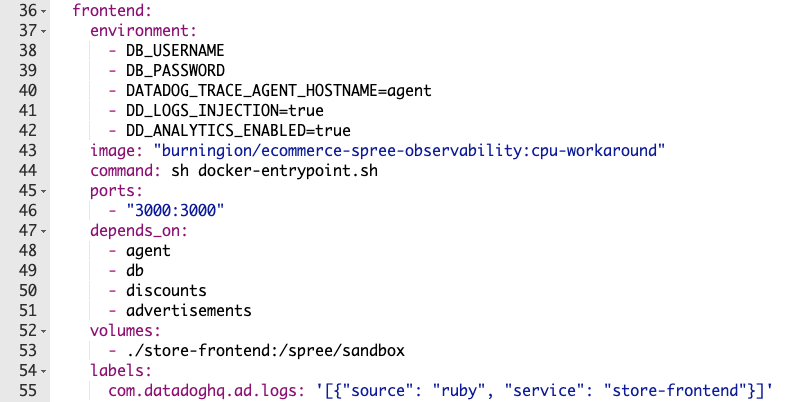
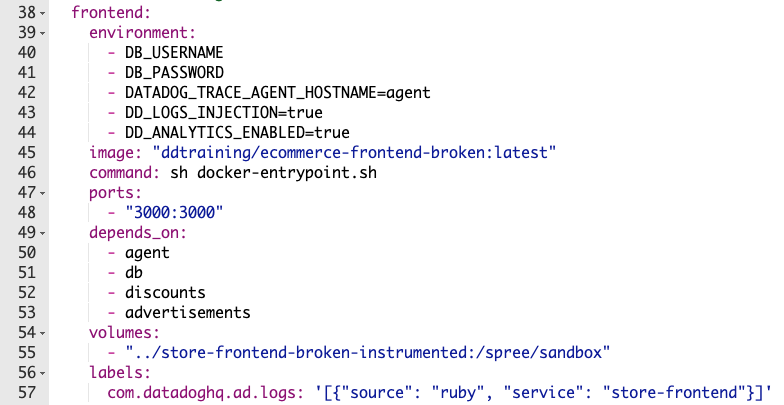
updated copy steps for agent, frontend; updated images for frontend

Changed region(s): [[0.0918, 0.0, 0.9796, 1.0], [0.0, 0.0, 0.0612, 0.6269], [0.0, 0.6567, 0.0612, 0.9851]]

diff --git a/apmintro/instrumentapp2/step2.md b/apmintro/instrumentapp2/step2.md
@@ -4,21 +4,24 @@ For APM in Datadog, you need to enable trace collection by the Datadog agent. To
 
 2. Under **services** (**Line 2**), view the details for **agent**. <p> Let's add the code for enabling trace and log collection.
 
-3. Click **Copy to Editor** in the block below to add the following to the list of environment variables for the agent. <p> `DD_APM_ENABLED=true` enables trace collection. (Note: This is enabled by default for Agent 6+.) <p> `DD_LOGS_ENABLED=true` enables log collection from the agent container. <p> `DD_LOGS_CONFIG_CONTAINER_COLLECT_ALL=true` enable log collection from the all other containers. <p> To learn more, view the <a href="https://docs.datadoghq.com/agent/docker/?tab=standard#optional-collection-agents" target="_blank">Tracing Docker Applications</a> and <a href="https://docs.datadoghq.com/agent/docker/log/?tab=dockercompose#one-step-install-to-collect-all-the-container-logs" target="_blank">Docker Log Collection</a> documentation.
-<pre class="file" data-filename="docker-compose-broken-no-apm-instrumentation.yml" data-target="insert" data-marker="# add agent env variables">
+3. Add the following environment variables for the agent. Click **Copy** in the block below. In the `docker-compose` file, replace the comment `# add agent env variables` with the copied code. <p> `DD_APM_ENABLED=true` enables trace collection. (Note: This is enabled by default for Agent 6+.) <p> `DD_LOGS_ENABLED=true` enables log collection from the agent container. <p> `DD_LOGS_CONFIG_CONTAINER_COLLECT_ALL=true` enable log collection from the all other containers. <p> To learn more, view the <a href="https://docs.datadoghq.com/agent/docker/?tab=standard#optional-collection-agents" target="_blank">Tracing Docker Applications</a> and <a href="https://docs.datadoghq.com/agent/docker/log/?tab=dockercompose#one-step-install-to-collect-all-the-container-logs" target="_blank">Docker Log Collection</a> documentation.
+```
          - DD_APM_ENABLED=true
          - DD_LOGS_ENABLED=true
-         - DD_LOGS_CONFIG_CONTAINER_COLLECT_ALL=true</pre> 
+         - DD_LOGS_CONFIG_CONTAINER_COLLECT_ALL=true
+```{{copy}} 
 
-4. Click **Copy to Editor** below to add the ports for tracing between the agent container and other containers. <p> Port `8126` is the default port for tracing. To learn more, view the <a href="https://docs.datadoghq.com/agent/docker/apm/?tab=java#tracing-from-the-host" target="_blank">Tracing Docker Applications</a> documentation. 
-<pre class="file" data-filename="docker-compose-broken-no-apm-instrumentation.yml" data-target="insert" data-marker="# add agent trace port">
+4. Add the ports for tracing between the agent container and other containers. Click **Copy** in the block below. In the `docker-compose` file, replace the comment `# add agent trace port` with the copied code. <p> Port `8126` is the default port for tracing. To learn more, view the <a href="https://docs.datadoghq.com/agent/docker/apm/?tab=java#tracing-from-the-host" target="_blank">Tracing Docker Applications</a> documentation. 
+```
        ports:
-         - "8126:8126"</pre> 
+         - "8126:8126"
+```{{copy}} 
 
-5. Click **Copy to Editor** below to add labels to the logs. <p> The labels allow Datadog to identify the log source for the container and to automatically install corresponding integrations, if available. This **Autodiscovery** feature speeds up the setup process for log collection. To learn more, view the <a href="https://docs.datadoghq.com/agent/docker/log/?tab=dockercompose#activate-log-integrations" target="_blank">Docker Log Collection</a> documentation. 
-<pre class="file" data-filename="docker-compose-broken-no-apm-instrumentation.yml" data-target="insert" data-marker="# add agent log labels">
+5. Add labels to the logs. Click **Copy** in the block below. In the `docker-compose` file, replace the comment `# add agent log labels` with the copied code. <p> The labels allow Datadog to identify the log source for the container and to automatically install corresponding integrations, if available. This **Autodiscovery** feature speeds up the setup process for log collection. To learn more, view the <a href="https://docs.datadoghq.com/agent/docker/log/?tab=dockercompose#activate-log-integrations" target="_blank">Docker Log Collection</a> documentation. 
+```
        labels:
-         com.datadoghq.ad.logs: '[{"source": "datadog-agent", "service": "agent"}]'</pre>
+         com.datadoghq.ad.logs: '[{"source": "datadog-agent", "service": "agent"}]'
+```
 
 The **agent** section of the `docker-compose` file should now look like the screenshot below. <p> ![instrumented-agent](instrumentapp2/assets/instrumented-agent.png)
 

diff --git a/apmintro/instrumentapp2/step3.md b/apmintro/instrumentapp2/step3.md
@@ -14,16 +14,18 @@ The store-frontend service has been instrumented for you, but you will update th
 
 6. Under **services** (**Line 2**), view the details for **frontend**. <p> Let's add the code for enabling trace and log collection.
 
-7. Click **Copy to Editor** below to add the following to the list of environment variables for the service. These environment variables are required for each service in the app that will monitored. <p> `DATADOG_TRACE_AGENT_HOSTNAME=agent` defines the address of the Agent that the tracer submits to (similar to **Line 6** in `store-frontend-broken-instrumented/store-frontend/config/initializers/datadog.rb`{{open}}). <p> `DD_LOGS_INJECTION=true` enables automatic injection of trace IDs into the logs from the supported logging libraries to correlate traces and logs. <p> `DD_ANALYTICS_ENABLED=true` enables App Analytics for the traces.
-<pre class="file" data-filename="docker-compose-broken-no-apm-instrumentation.yml" data-target="insert" data-marker="# add frontend env variables">
+7. Add the following environment variables for the service. These environment variables are required for each service in the app that will monitored. Click **Copy** in the block below. In the `docker-compose` file, replace the comment `# add frontend env variables` with the copied code. <p> `DATADOG_TRACE_AGENT_HOSTNAME=agent` defines the address of the Agent that the tracer submits traces to. <p> `DD_LOGS_INJECTION=true` enables automatic injection of trace IDs into the logs from the supported logging libraries to correlate traces and logs. <p> `DD_ANALYTICS_ENABLED=true` enables App Analytics for the traces.
+```
          - DATADOG_TRACE_AGENT_HOSTNAME=agent
          - DD_LOGS_INJECTION=true
-         - DD_ANALYTICS_ENABLED=true</pre> 
+         - DD_ANALYTICS_ENABLED=true
+```{{copy}}
 
-8. Click **Copy to Editor** below to add labels to the logs.
-<pre class="file" data-filename="docker-compose-broken-no-apm-instrumentation.yml" data-target="insert" data-marker="# add frontend log labels">
+8. Add labels to the logs. Click **Copy** in the block below. In the `docker-compose` file, replace the comment `# add frontend log labels` with the copied code.
+```
        labels:
-         com.datadoghq.ad.logs: '[{"source": "ruby", "service": "store-frontend"}]'</pre> 
+         com.datadoghq.ad.logs: '[{"source": "ruby", "service": "store-frontend"}]'
+```{{copy}} 
 
 With these steps, the Ruby-on-Rails `store-frontend` service is instrumented for APM and Log management with Datadog. The **frontend** section of the `docker-compose` file should now look like the screenshot below. <p> ![instrumented-frontend](instrumentapp2/assets/instrumented-frontend.png) 
 
